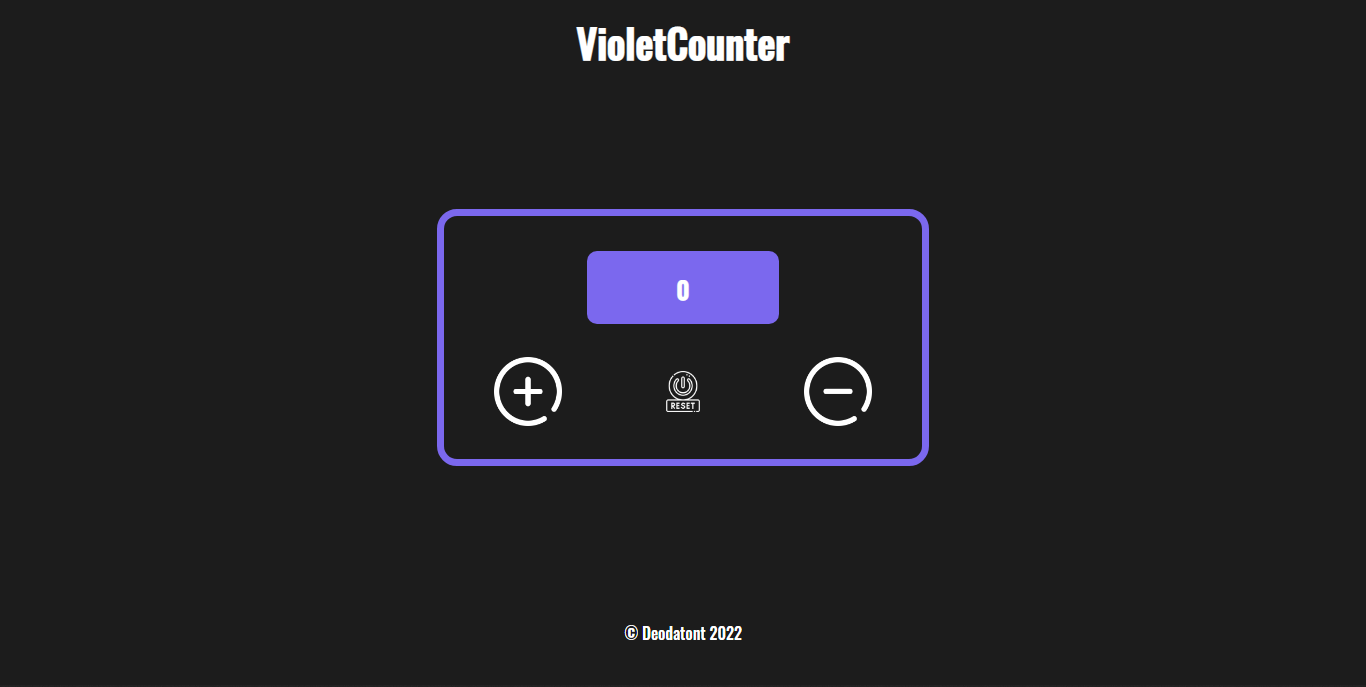
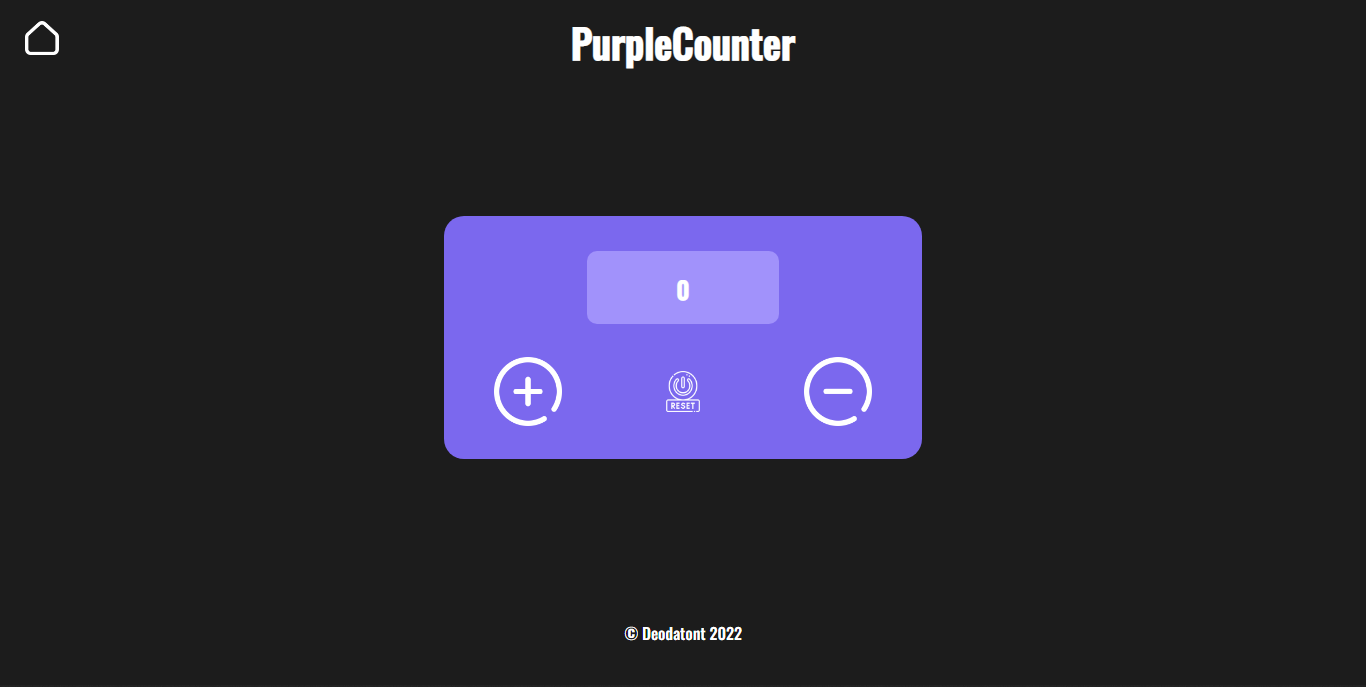
Update finally

diff --git a/App/src/App.jsx b/App/src/App.jsx
@@ -1,8 +1,7 @@
 import React, { Component } from "react"
 
-import moreIcon from "./Assets/more.png"
-import resetIcon from "./Assets/reset.png"
-import lessIcon from "./Assets/less.png"
+// Images 
+import {iconMore, iconReset, iconLess, iconSystemHome} from "../src/Assets"
 
 import "./App.css"
 
@@ -29,10 +28,14 @@ export default class App extends Component {
   
   render() {
     return (
-      <div className="orangeBody">
+      <div className="purpleBody">
         
         <header>
           
+          <a href="">
+            <img className="systemHome" src={iconSystemHome}></img>
+          </a>
+
           <h1 className="title">
             PurpleCounter
           </h1>
@@ -53,11 +56,11 @@ export default class App extends Component {
 
             <section className="buttonsBox">
               
-                <img className="operationButton" src={moreIcon} alt="" onClick={this.moreNum}></img>
+                <img className="operationButton" src={iconMore} alt="" onClick={this.moreNum}></img>
 
-                <img className="resetIcon" src={resetIcon} alt="" onClick={this.clearNum}></img>
+                <img className="resetIcon" src={iconReset} alt="" onClick={this.clearNum}></img>
                 
-                <img className="operationButton" src={lessIcon} alt="" onClick={this.lessNum}></img>
+                <img className="operationButton" src={iconLess} alt="" onClick={this.lessNum}></img>
 
             </section>
 

diff --git a/App/src/App.css b/App/src/App.css
@@ -9,7 +9,7 @@ body {
 }
 
 /* orangeBody */
-.orangeBody {
+.purpleBody {
   display: flex;
   flex-direction: column;
   justify-content: space-around;
@@ -21,11 +21,26 @@ header {
   height: 15vh;
 
   display: flex;
+  justify-content: space-around;
   align-items: center;
+}
+
+.systemHome {
+  width: 2.5vw;
+
+  position: absolute;
+  margin-top: -3vh;
+  margin-left: -40vw;
+}
+.systemHomeI:hover {
+  cursor: pointer;
 }
 
 .title {
   font-size: 2.5em;
+
+  display: flex;
+  justify-content: flex-start;
 }
 
 /* config-main */
@@ -46,7 +61,8 @@ main {
   justify-content: space-around;
   align-items: center;
 
-  border: solid 7px #7B68EE;
+  background-color: #7B68EE;
+
   border-radius: 20px;  
 }
 
@@ -59,7 +75,7 @@ main {
 
   margin-top: 5vh;
 
-  background-color: #7B68EE;
+  background-color: #A192FB;
   border-radius: 10px;
 }
 

diff --git a/App/index.html b/App/index.html
@@ -2,7 +2,7 @@
 <html lang="en">
   <head>
     <meta charset="UTF-8" />
-    <link rel="icon" type="image/svg+xml" href="/src/Assets/counter.png" />
+    <!-- <link rel="icon" type="image/svg+xml" href="" /> -->
     <meta name="viewport" content="width=device-width, initial-scale=1.0" />
     <title>PurpleCounter</title>
   </head>

diff --git a/App/src/Assets/index.js b/App/src/Assets/index.js
@@ -1,0 +1,5 @@
+// App Images
+export {default as iconSystemHome} from "./systemHome.png"
+export {default as iconMore} from "./more.png"
+export {default as iconReset} from "./reset.png"
+export {default as iconLess} from "./less.png"

diff --git a/README.md b/README.md
@@ -11,13 +11,13 @@
 ---
 
 <h2 align="center">Design</h2>
-<a href="https://www.figma.com/file/sH2wPCG6ZUYt6NR9xrgjxD/PurpleCounter?node-id=0%3A1"><img src="https://img.shields.io/static/v1?label=Design&message=Figma&color=00FA9A&style=for-the-badge&logo=FIGMA" alt="ntShield"></a>
+<a href="https://www.figma.com/file/sH2wPCG6ZUYt6NR9xrgjxD/PurpleCounter?node-id=0%3A1"><img src="https://img.shields.io/static/v1?label=Design&message=Figma&color=00FA9A&style=for-the-badge&logo=FIGMA" alt="ntShield" cursor="pointer" ></a>
 
 ---
 
 <h2  align="center">Application demo</h2>
 
-<a href="https://purplecounter.netlify.app/"><img src="https://img.shields.io/static/v1?label=Netlify&message=Demo&color=0e1e25&style=for-the-badge&logo=NETLIFY" alt="ntShield"></a>
+<a href="https://purplecounter.netlify.app/"><img src="https://img.shields.io/static/v1?label=Netlify&message=Demo&color=0e1e25&style=for-the-badge&logo=NETLIFY" alt="ntShield" cursor="pointer" ></a>
 
 
 ---
